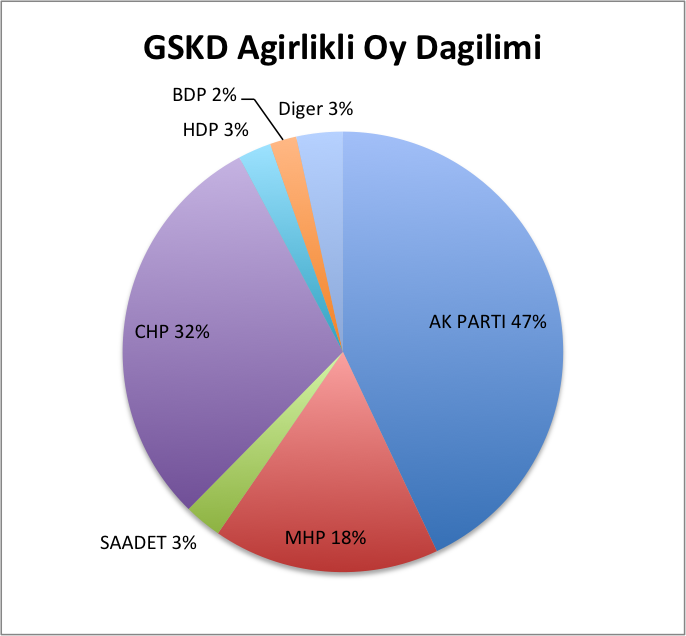
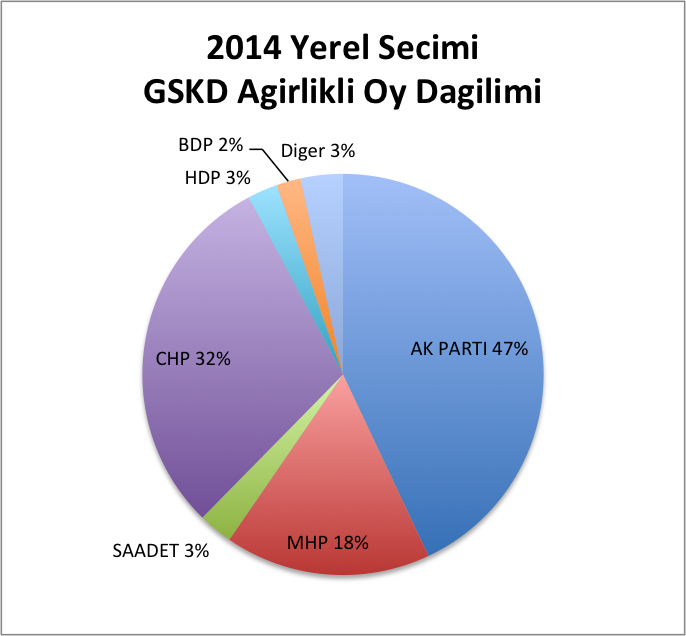
Image title fixed

Changed region(s): [[0.1531, 0.0299, 0.8265, 0.8962], [0.4286, 0.6871, 0.6429, 0.9261], [0.3673, 0.8365, 0.551, 0.8962]]

diff --git a/README.md b/README.md
@@ -6,11 +6,11 @@ YSK (Yuksek Secim Kurulu) 2014 Yerel secim sonuclarini indiren, duzenleyen, anal
 Scripts to scrape ballot-box level official vote counts, to clean/reformat/combine resulting files, and to recalculate GPD weighted votes for Turkey's 2014 local election.
 Codes are commented, short deescriptions of the files are as follows:
 
-- **scrape.py**: the script that I used to scrape the Turkish local elections, 2014.
-- **merge.py**: to clean the collected data and combine them into a single CSV file.
-- **plaka.tsv**: a helper file to map the cities to their traffic codes
-- **GSKD.csv**: extracted from [TUIK April 2014 report](http://www.tuik.gov.tr/jsp/duyuru/upload/yayinrapor/GSKD_Bolgesel_2004-2011.pdf) to get regional GDPs for analysis.
-- **kd_oylar.py**: to get GDP per region weighted votes.
-- **kd_oylar.csv**: GDP per region weighted votes resulting file
+- **scrape.py**: Scrapes Turkish local elections, 2014 results from ysk.gov.tr (official election institute).
+- **merge.py**: Cleans and reformats the collected data and combine them into a single CSV file.
+- **plaka.tsv**: A helper file to map the cities to their traffic codes.                                                                                                
+- **GSKD.csv**: GDP per capita table for 26 regions (extracted from [TUIK April 2014 report](http://www.tuik.gov.tr/jsp/duyuru/upload/yayinrapor/GSKD_Bolgesel_2004-2011.pdf)).
+- **kd_oylar.py**: Recalculates parties' vote shares weighted by 26 regions' GDP.
+- **kd_oylar.csv**: GDP per region weighted votes resulting file.
 - **yerel2014.csv**: Official ballot-box level results of the top ten parties' in Turkish local elections, 2014.
 - **Yerel-GSKD-TR.png**: Pie chart of recalculated vote shares of parties if GDP voted not people. Replicated what [the Guardian](http://www.economist.com/blogs/graphicdetail/2015/10/daily-chart-18) did for Brazil.
